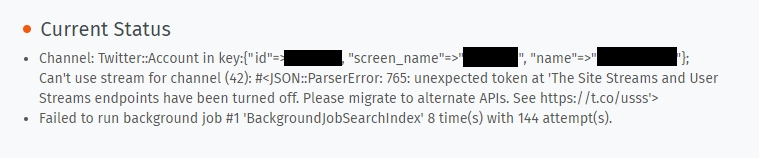
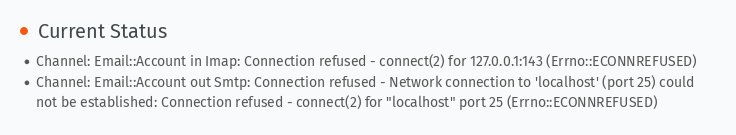
Removed Twitter page and textual fragments

diff --git a/system/monitoring.rst b/system/monitoring.rst
@@ -32,7 +32,6 @@ already included.
 
 .. figure:: /images/system/monitoring/monitoring-token-health-check.png
    :alt: Screenshot showing Current Token and Health Check
-   :scale: 100%
 
    Screenshot showing Token and Health Check
 
@@ -53,7 +52,10 @@ Example Output
 
    **API response**::
 
-      {"healthy"=>true, "message"=>"success"}
+      {
+         "healthy": true,
+         "message": "success"
+      }
 
 :Issues were found:
 
@@ -65,4 +67,14 @@ Example Output
 
    **API response**::
 
-      {"healthy":false,"message":"Channel: Twitter::Account in key:{\"id\"=\XXXXXXXXXXXXXXXXX, \"screen_name\"=\u003e\"Name\", \"name\"=\u003e\"Somewhat name\"}; Can't use stream for channel (42): #\u003cJSON::ParserError: 765: unexpected token at 'The Site Streams and User Streams endpoints have been turned off. Please migrate to alternate APIs. See https://t.co/usss'\u003e","issues":["Channel: Twitter::Account in key:{\"id\"=\XXXXXXX, \"screen_name\"=\u003e\"Name\", \"name\"=\u003e\"Somename\"}; Can't use stream for channel (42): #\u003cJSON::ParserError: 765: unexpected token at 'The Site Streams and User Streams endpoints have been turned off. Please migrate to alternate APIs. See https://t.co/usss'\u003e"],"actions":[]}
+      {
+         "healthy": false,
+         "message": "Failed to run background job #1 'TicketArticleCommunicateEmailJob' 1 time(s) with 2 attempt(s).;Channel: Email::Account in  Imap: Connection refused - connect(2) for 127.0.0.1:143 (Errno::ECONNREFUSED);Channel: Email::Account out  Smtp: Connection refused - Network connection to 'localhost' (port 25) could not be established: Connection refused - connect(2) for \"localhost\" port 25 (Errno::ECONNREFUSED)",
+         "issues": [
+            "Failed to run background job #1 'TicketArticleCommunicateEmailJob' 1 time(s) with 2 attempt(s).",
+            "Channel: Email::Account in  Imap: Connection refused - connect(2) for 127.0.0.1:143 (Errno::ECONNREFUSED)",
+            "Channel: Email::Account out  Smtp: Connection refused - Network connection to 'localhost' (port 25) could not be established: Connection refused - connect(2) for \"localhost\" port 25 (Errno::ECONNREFUSED)"
+         ],
+         "actions": [],
+         "token": "XXXXXXXXXXXXXXXXXXXXXXXXXXXXXXXXXXXXXXXXXx"
+      }

diff --git a/manage/roles/admin-permissions.rst b/manage/roles/admin-permissions.rst
@@ -85,9 +85,6 @@ tickets, see :doc:`agent permissions <agent-permissions>` and
    * - ``admin.channel_telegram``
      - :doc:`Channels > Telegram </channels/telegram>`
      - Accessing Telegram tickets for agents: :doc:`/manage/groups/access-levels`
-   * - ``admin.channel_twitter``
-     - :doc:`Channels > Twitter </channels/twitter-x/twitter>`
-     - Accessing Twitter/X tickets for agents: :doc:`/manage/groups/access-levels`
    * - ``admin.channel_web``
      - :doc:`Channels > Web </channels/web>`
      -

diff --git a/misc/composer.rst b/misc/composer.rst
@@ -64,9 +64,3 @@ Email - quote header
 
    Default: ``yes``
 
-Twitter - tweet initials
-   When set to yes, this will add ``/CM`` (first character of first- and
-   last name) to the bottom of every tweet answer you create.
-   This only affects tickets that come from the Twitter Channel.
-
-   Default: ``yes``

diff --git a/misc/first-steps.rst b/misc/first-steps.rst
@@ -75,10 +75,6 @@ Create Macros
 Additional Channels
 -------------------
 
-Twitter
-   Link to the
-   :doc:`Twitter channel in the settings </channels/twitter-x/twitter>`.
-
 Facebook
    Link to the
    :doc:`Facebook channel in the settings </channels/facebook>`.

diff --git a/index.rst b/index.rst
@@ -46,7 +46,6 @@ Zammad Admin Documentation
    channels/microsoft365-graph/index
    channels/microsoft365/index
    channels/sms
-   channels/twitter-x/twitter
    channels/facebook
    channels/telegram
    channels/whatsapp/index
